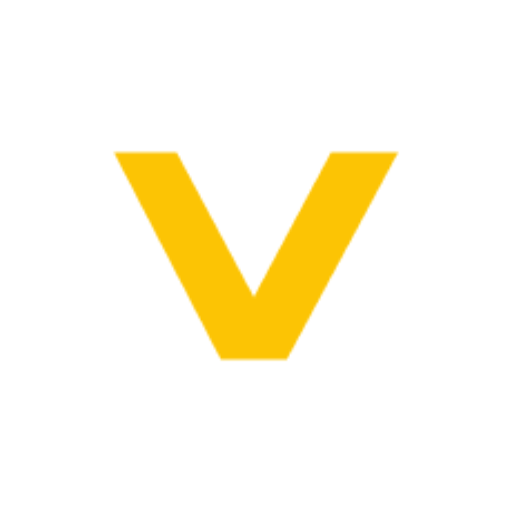
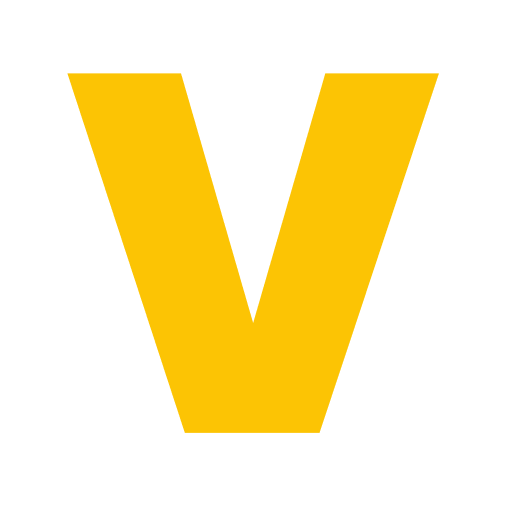
Style: 로고, 디폴트 이미지, 파비콘 변경

Changed region(s): [[0.125, 0.125, 0.875, 0.8438]]

diff --git a/src/assets/Logo.tsx b/src/assets/Logo.tsx
@@ -1,18 +1,30 @@
-export default function Logo({ className, color = "#FCC404" }: IconProps) {
+export default function Logo({ className }: IconProps) {
   return (
     <svg
-      xmlns="http://www.w3.org/2000/svg"
-      width="100"
+      width="215"
       height="100"
-      viewBox="0 0 100 100"
+      viewBox="0 0 215 100"
       fill="none"
+      xmlns="http://www.w3.org/2000/svg"
       className={className}
     >
       <path
-        d="M22.5 15H2L38 84.5H60L97.5 15H75.5L49 64.5L22.5 15Z"
-        fill={color}
-        stroke={color}
+        d="M31.6761 22.7273L43.0114 61.6989H43.4432L54.7784 22.7273H71.7273L53.483 78H32.9716L14.7273 22.7273H31.6761ZM92.0565 22.7273V78H77.0508V22.7273H92.0565ZM114.282 22.7273L125.617 61.6989H126.049L137.384 22.7273H154.333L136.088 78H115.577L97.3327 22.7273H114.282ZM159.656 78V22.7273H199.491V34.8182H174.662V44.3182H197.44V56.4091H174.662V65.9091H199.384V78H159.656Z"
+        fill="url(#paint0_linear_74021_3164)"
       />
+      <defs>
+        <linearGradient
+          id="paint0_linear_74021_3164"
+          x1="204"
+          y1="77.6"
+          x2="13.0768"
+          y2="20.6585"
+          gradientUnits="userSpaceOnUse"
+        >
+          <stop stop-color="#FCC404" />
+          <stop offset="1" stop-color="#F38304" />
+        </linearGradient>
+      </defs>
     </svg>
   );
 }

diff --git a/src/pages/Login.tsx b/src/pages/Login.tsx
@@ -45,7 +45,7 @@ export default function Login() {
   return (
     <section className="mx-auto flex screen-100vh items-center justify-center p-[70px]">
       <form onSubmit={handleSubmit} className="flex flex-col w-[400px]">
-        <Logo className="mx-auto w-[100px] h-[100px] mb-10" />
+        <Logo className="mx-auto w-auto h-[100px] mb-10" />
         <div className="flex flex-col gap-4">
           <InputLabel
             label="이메일"

diff --git a/src/pages/Register.tsx b/src/pages/Register.tsx
@@ -75,7 +75,7 @@ export default function Register() {
   return (
     <section className="mx-auto flex screen-100vh items-center justify-center p-[70px]">
       <form onSubmit={handleSubmit} className="flex flex-col w-[400px]">
-        <Logo className="mx-auto w-[100px] h-[100px] mb-10" />
+        <Logo className="mx-auto w-auto h-[100px] mb-10" />
         <div className="flex flex-col gap-4">
           <InputLabel
             label="이름"

diff --git a/src/components/Header/LogoButton.tsx b/src/components/Header/LogoButton.tsx
@@ -5,7 +5,7 @@ export default function LogoButton() {
   return (
     <Link to="/">
       <h1>
-        <Logo className="w-11 h-11" />
+        <Logo className="w-auto h-16" />
       </h1>
     </Link>
   );
